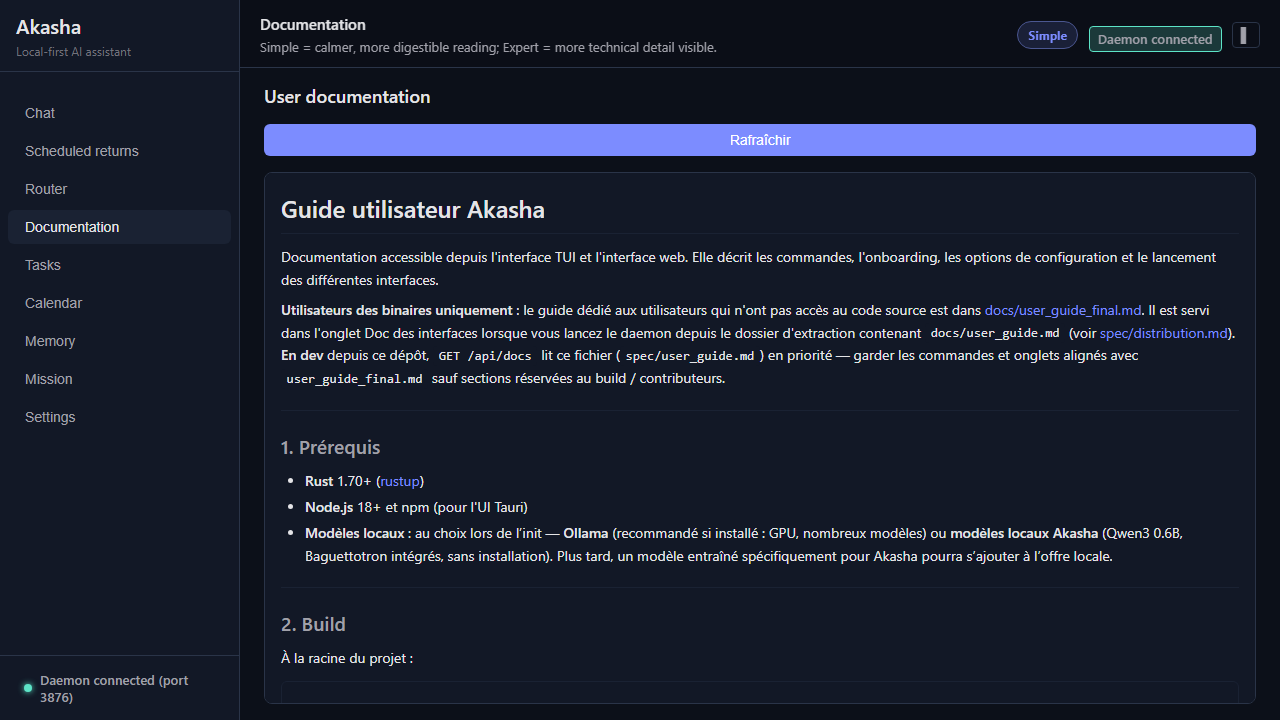
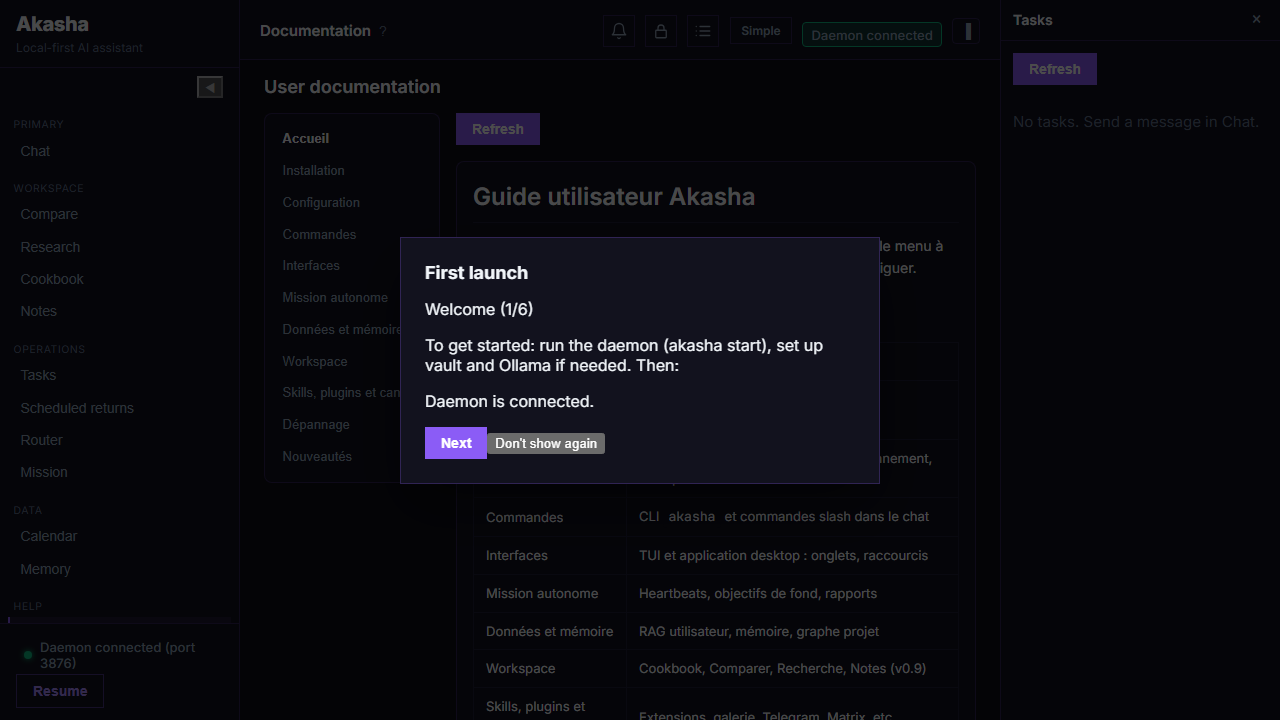
Regenerate UI screenshots for v0.9.0 workspace panels.

diff --git a/apps/akasha-ui/e2e/smoke.spec.ts b/apps/akasha-ui/e2e/smoke.spec.ts
@@ -20,6 +20,7 @@ test.describe("Akasha UI (E2E build)", () => {
     await page.addInitScript(() => {
       try {
         localStorage.setItem("akasha_onboarding_dismissed", "1");
+        localStorage.setItem("akasha_setup_wizard_done", "1");
       } catch {
         /* ignore */
       }
@@ -65,7 +66,7 @@ test.describe("Akasha UI (E2E build)", () => {
     await page.goto("/#/cookbook");
     await expect(page.locator(".daemon-status-ok")).toBeVisible({ timeout: 120_000 });
     await expect(page.locator("#panel-cookbook")).toBeVisible({ timeout: 60_000 });
-    await page.locator(".cookbook-panel-tabs button").first().click();
+    await expect(page.locator(".cookbook-panel-tabs button").first()).toHaveClass(/active/);
     await expect(page.locator(".cookbook-panel")).toBeVisible();
     await page.screenshot({
       path: path.join(screenshotsDir(), "ui-cookbook-models.png"),
@@ -77,7 +78,7 @@ test.describe("Akasha UI (E2E build)", () => {
     await page.goto("/#/cookbook");
     await expect(page.locator(".daemon-status-ok")).toBeVisible({ timeout: 120_000 });
     await expect(page.locator("#panel-cookbook")).toBeVisible({ timeout: 60_000 });
-    await page.locator(".cookbook-panel-tabs button").nth(1).click();
+    await page.locator(".cookbook-panel-tabs button").nth(1).click({ force: true });
     await expect(page.locator(".cookbook-panel")).toBeVisible();
     await page.screenshot({
       path: path.join(screenshotsDir(), "ui-cookbook-recipes.png"),
